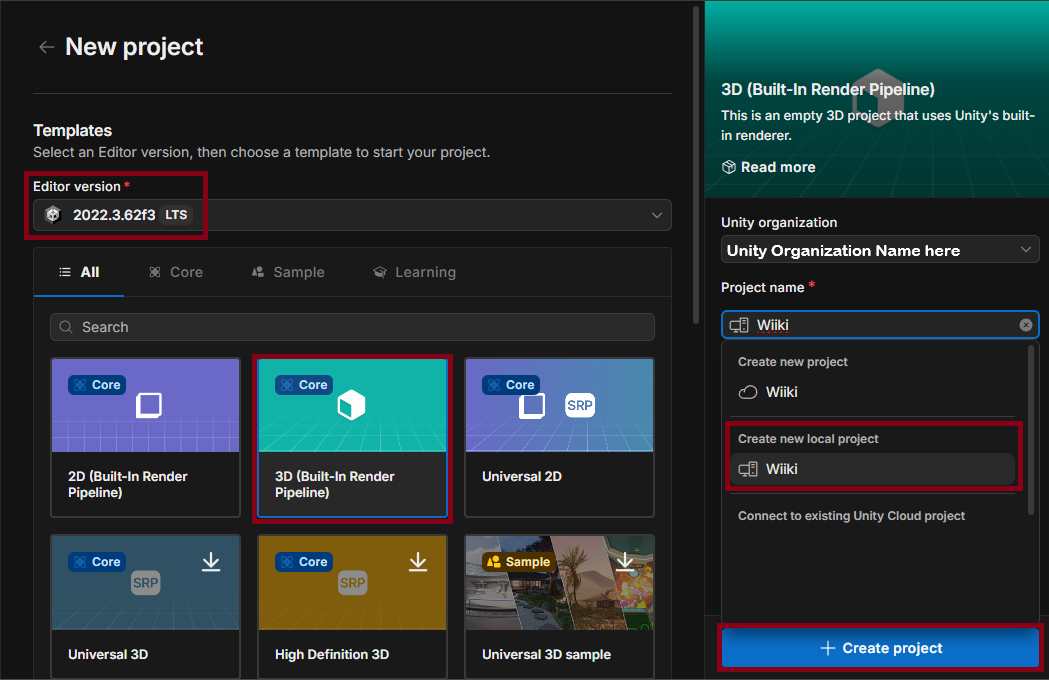
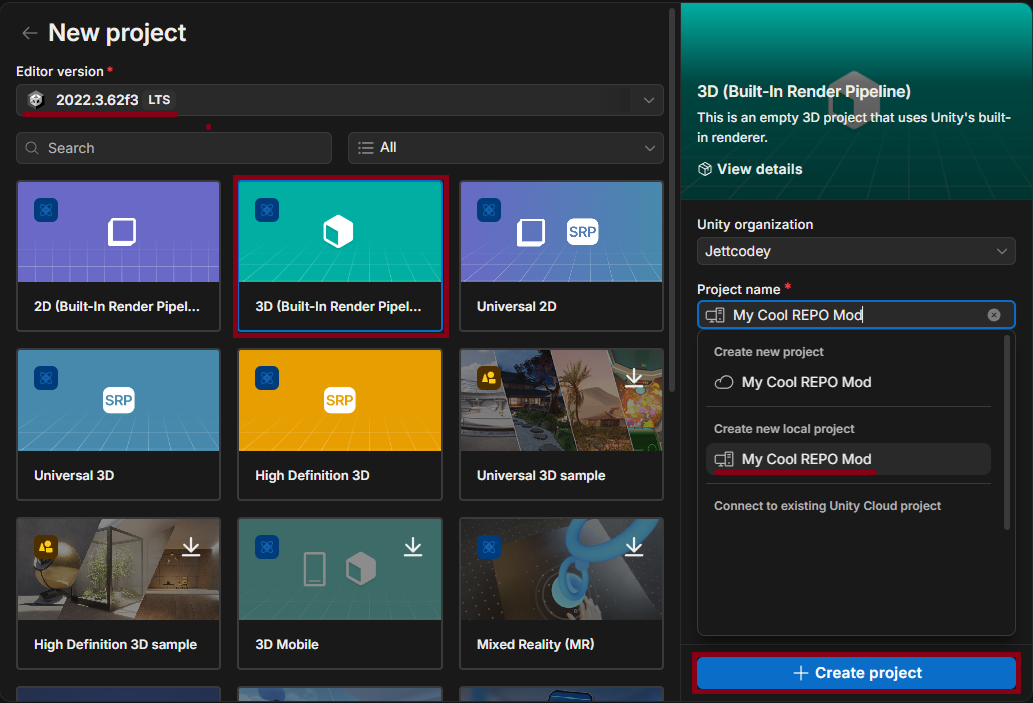
Reorganize Unity.md and update images (#43)
- Refactored Project Setup steps
- Added warnings/tips about git/patch behavior
- Updated some images and removed unnecessary images

diff --git a/docs/unity.md b/docs/unity.md
@@ -1,5 +1,4 @@
 # R.E.P.O. Unity Project Setup
-
 A guide for setting up your Unity Project to create mods for R.E.P.O.\
 The Unity workflow is primarily needed for creating Valuables, Shop Items, Enemies, Levels and Cosmetics.
 
@@ -13,101 +12,98 @@ Parts of this guide differ between **Windows** and **Linux**. Make sure to insta
 :::
 
 ## Prerequisites
-
-- **Unity Hub**: Download and install [Unity Hub](https://unity.com/download).
-- **Unity Editor**: Install the Unity Editor version [2022.3.62f3](unityhub://2022.3.62f3/96770f904ca7).
+Download and Install the following:\
+- **[Git](https://git-scm.com/downloads)** This is required for installing packages via Git URL in Unity.
 - **.NET SDK**: Required for AssetRipper to run.
-    <!--NOTE: The AssetRipper Build the Windows version of the UPP Wrapper uses may be updated and will require .NET SDK 10-->
-    - **For Windows**: [Version 9.x](https://dotnet.microsoft.com/en-us/download/dotnet/9.0)
-    - **For Linux**: [Version 10.x](https://dotnet.microsoft.com/en-us/download/dotnet/10.0)
-- **Git**: Download & Install [Git](https://git-scm.com/downloads). This is required for installing packages via Git URL in Unity.
+   <!--NOTE: The AssetRipper build the Windows version of the UPP Wrapper uses may be updated and will require .NET SDK 10-->
+   - **For Windows**: [Version 9.0](https://dotnet.microsoft.com/en-us/download/dotnet/9.0)
+   - **For Linux**: [Version 10.0](https://dotnet.microsoft.com/en-us/download/dotnet/10.0)
+- **[Unity Hub](https://unity.com/download)**
+- **[Unity Editor 2022.3.62f3](https://unity.com/releases/editor/whats-new/2022.3.62f3)**
 
 ## Unity Project Setup
+Create a new Unity project with the following configuration (see image below):
+- **Editor Version**: `2022.3.62f3`
+- **Project Location**: Local Project
+- **Template**: 3D (Built-In Render Pipeline)
 
-1. Create a new Unity project with the following configuration (see image below):
-   - **Editor Version**: `2022.3.62f3`
-   - **Project Location**: Local Project
-   - **Template**: 3D (Built-In Render Pipeline)
+![Screenshot](/unity/0.png)
 
-   ![Screenshot](/unity/0.png)
+Once Unity fully opens, navigate to the Menubar and click **`Window > Package Manager`**.\
+Click the **`+`** button at the top left of the **Package Manager** Window and choose\
+**`Add package from git URL...`** and install the required Unity Packages by pasting the following links one by one into the Text field:
 
-2. Once Unity fully opens, navigate to the menu bar and click `Window > Package Manager`.
+![Screenshot](/unity/1.png)
 
-3. Click the `+` button in the top left of the Package Manager and choose `Add package from git URL...`:
+::: warning
+If you had Unity open before installing **git**, it will complain about **git** not being installed. In this case, close Unity Editor and Unity Hub, and make sure they areactually fully closed. If nothing is working, try restarting your PC.
+:::
 
-   ![Screenshot](/unity/1.png)
+**Unity Project Patcher**:
+::: code-group
+```bash [Windows]
+https://github.com/nomnomab/unity-project-patcher.git
+```
+```bash [Linux]
+https://github.com/Jettcodey/unity-project-patcher.git
+```
+:::
 
-4. Paste all the **following** Unity Package links one after another into this text field:
+**Unity Project Patcher BepInEx**:
+::: code-group
+```bash [Windows]
+https://github.com/Kesomannen/unity-project-patcher-bepinex.git
+```
+```bash [Linux]
+https://github.com/Jettcodey/unity-project-patcher-bepinex.git
+```
+:::
 
-   ![Screenshot](/unity/2.png)
+**Unity REPO Project Patcher**:
+::: code-group
+```bash [Windows]
+https://github.com/ZehsTeam/unity-repo-project-patcher.git
+```
+```bash [Linux]
+https://github.com/Jettcodey/unity-repo-project-patcher.git
+```
+:::
 
-   - **Unity Project Patcher**: Generates a Unity project from a game build so the game can be played in the editor.
-   ::: code-group
-   ```bash [Windows]
-   https://github.com/nomnomab/unity-project-patcher.git
-   ```
-   ```bash [Linux]
-   https://github.com/Jettcodey/unity-project-patcher.git
-   ```
-   :::
+Please make sure to only use these git links when setting up the R.E.P.O. Unity Project Patcher!
 
-   - **Unity Project Patcher BepInEx**: BepInEx handler for a Unity Project Patcher project.
-   ::: code-group
-   ```bash [Windows]
-   https://github.com/Kesomannen/unity-project-patcher-bepinex.git
-   ```
-   ```bash [Linux]
-   https://github.com/Jettcodey/unity-project-patcher-bepinex.git
-   ```
-   :::
+## Run the Project Patcher
+Navigate to the Menubar and click **`Tools > Unity Project Patcher > Configs > UPPatcherUserSettings`**:
 
-   - **Unity REPO Project Patcher**: Game wrapper that generates the Unity project from a R.E.P.O. build for in-editor play.
-   ::: code-group
-   ```bash [Windows]
-   https://github.com/ZehsTeam/unity-repo-project-patcher.git
-   ```
-   ```bash [Linux]
-   https://github.com/Jettcodey/unity-repo-project-patcher.git
-   ```
-   :::
+![Screenshot](/unity/2.png)
 
-### Patching the Project
+You will now see new options in the Inspector panel. Leave all the Pre filled fields as they are and only Enter the path to your game folder.
 
-1. After successfully adding the three packages above, navigate to the Unity menu bar and click `Tools > Unity Project Patcher > Configs > UPPatcherUserSettings`:
+![Screenshot](/unity/3.png)
 
-   ![Screenshot](/unity/3.png)
+Back to the Menubar and open the Patcher Window by going to **`Tools > Unity Project Patcher > Open Window`**.
 
-2. You will now see new options in the **Inspector** panel. Leave all the pre-filled fields as they are and only add the games folder path:
+![Screenshot](/unity/4.png)
 
-   ![Screenshot](/unity/4.png)
+In the newly opened `UPPatcher - RepoWrapper` window, click on `Enable BepInEx` at the bottom of the window and wait for the process to finish.
 
-3. Next, return to the menu bar and click `Tools > Unity Project Patcher > Open Window`:
+![Screenshot](/unity/5.png)
 
-   ![Screenshot](/unity/5.png)
+Once BepInEx is enabled, click `Run Patcher` at the Top of the window to begin patching the project:
 
-4. In the newly opened `UPPatcher - RepoWrapper` window, click on `Enable BepInEx` at the bottom of the window and wait for the process to finish.
+![Screenshot](/unity/6.png)
 
-   ![Screenshot](/unity/6.png)
+::: tip Expected patch behavior
+- Fresh patch time: ~25-35 minutes.
+- Unity will restart approximately 5-6 times during the process.
+- Simply click **OK** on the 4 popups when prompted after starting the process.
+:::
 
-5. Once BepInEx is enabled, click `Run Patcher` at the Top of the window to begin patching the project:
+After Unity restarts for the final time, a confirmation window will appear indicating the project has been successfully patched.
 
-   ![Screenshot](/unity/7.png)
-
-   ::: info NOTE
-   **This process WILL take a while and will restart the Unity Editor about 4-6 times.**
-
-   At the very beginning, you will receive **4** Popups. You can safely click `Ok` on each of them.
-   :::
-
-6. After the Editor restarts for the final time, a confirmation window will appear indicating the project has been successfully patched. Click `Ok`:
-
-   ![Screenshot](/unity/8.png)
-
-   ::: warning Did the Unity Project Patcher fail?
-   First, check the **Unity Console** for specific errors and verify that you've installed all [Prerequisites](#prerequisites). 
-
-   If everything looks correct, join the [R.E.P.O. Modding Server](https://discord.gg/vPJtKhYAFe) and ask for help in the [`#development`](https://discord.com/channels/1344557689979670578/1344699470176194673) channel.\
-   You will need to acquire the **Modder** role from [`≣ Channels & Roles`](https://discord.com/channels/1344557689979670578/customize-community).
-   :::
+::: warning Patching process has failed or got stuck?
+First, check the **Unity Console** for specific errors and verify that you've installed all [Prerequisites](#prerequisites).\
+If everything looks correct, join the [R.E.P.O. Modding Server](https://discord.gg/vPJtKhYAFe) and ask for help in the [`#development`](https://discord.com/channels1344557689979670578/1344699470176194673) channel.\
+You will need to acquire the **Modder** role from [`≣ Channels & Roles`](https://discord.com/channels/1344557689979670578/customize-community).
+:::
 
 Now that your Unity Project is successfully patched, we recommend adding the [REPOLib SDK](./apis/repolib/sdk/start.md) to your project to make the workflow easier.
